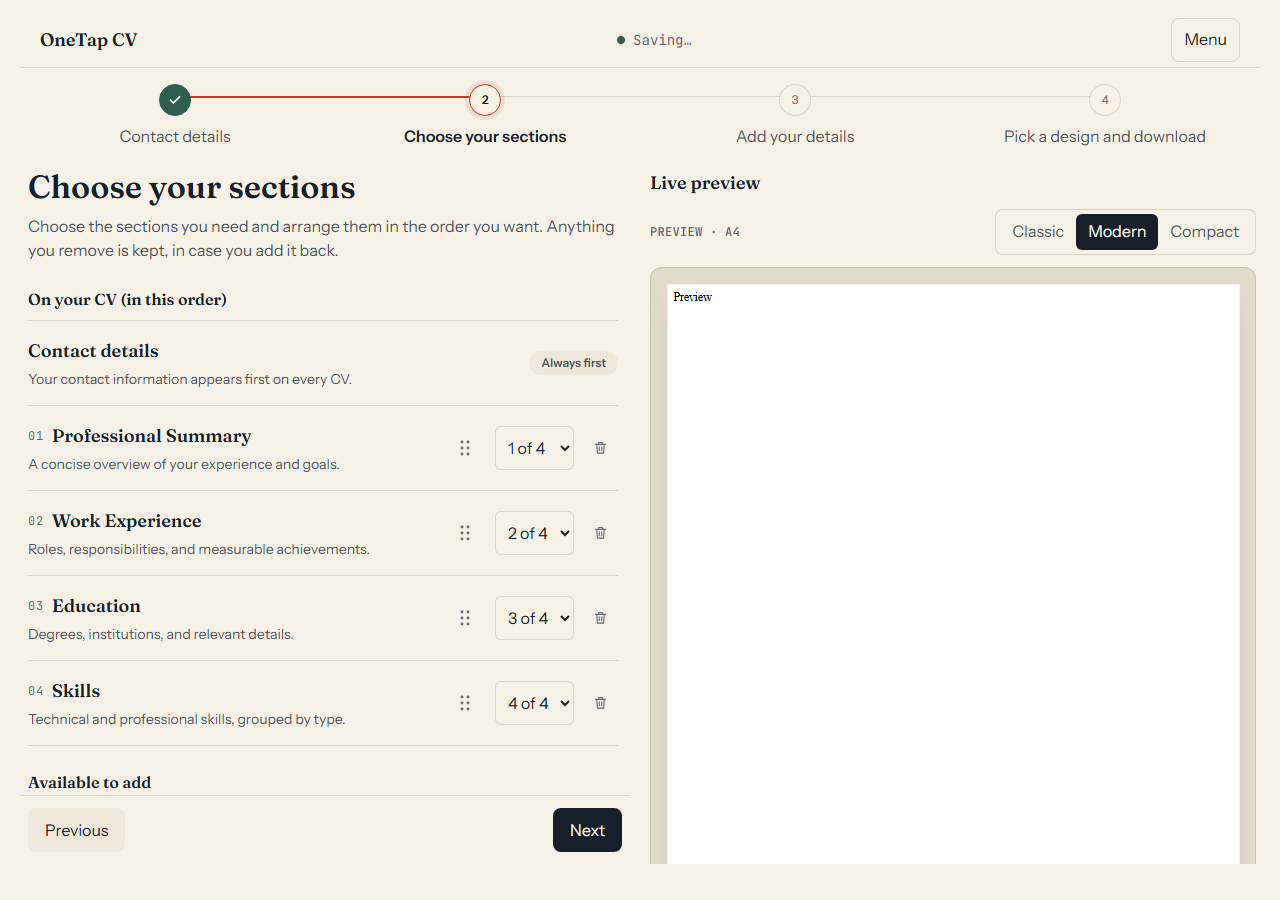
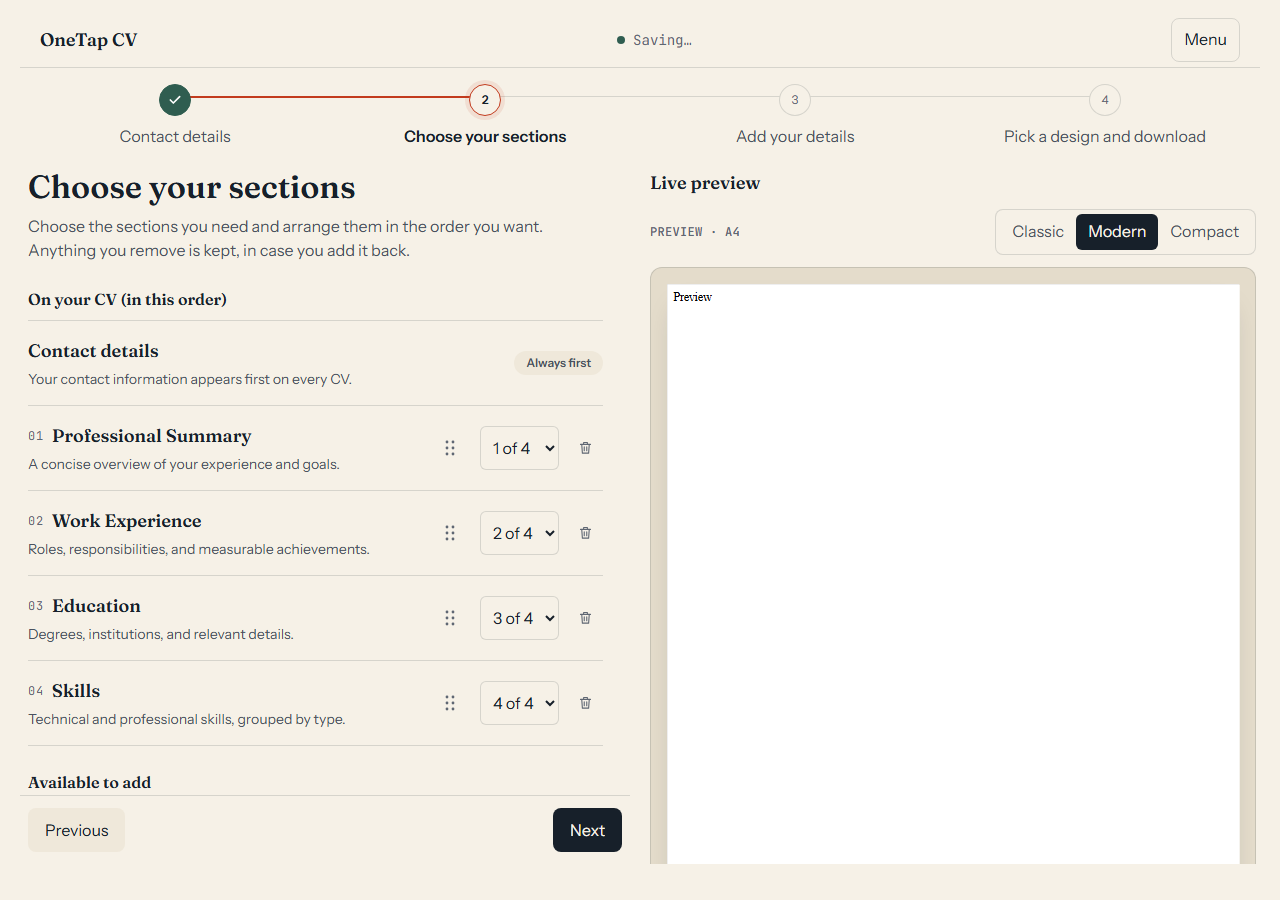
fix(builder): keep editor width stable across steps

diff --git a/frontend/e2e/layout.spec.ts b/frontend/e2e/layout.spec.ts
@@ -33,6 +33,14 @@ async function waitForPageScrollToSettle(page: import('@playwright/test').Page) 
   }))
 }
 
+async function getEditorHeadingLeft(page: import('@playwright/test').Page) {
+  return page.locator('section[aria-label="Resume editor"] h2').first().evaluate((node) => Math.round(node.getBoundingClientRect().left))
+}
+
+async function getEditorViewportWidth(page: import('@playwright/test').Page) {
+  return page.locator('section[aria-label="Resume editor"] .builder-editor-scroll').evaluate((node) => node.clientWidth)
+}
+
 test.beforeEach(async ({ page }) => {
   await page.route('**/api/**', async (route) => {
     const url = new URL(route.request().url())
@@ -95,10 +103,14 @@ for (const width of widths) {
         await page.getByLabel('Full name').fill('Shahriar Hasan')
         await page.getByLabel('Email').fill('shahriar@example.com')
         await page.getByLabel('Phone').fill('+1 555 010 2000')
+        const stepOneHeadingLeft = await getEditorHeadingLeft(page)
+        const stepOneEditorWidth = await getEditorViewportWidth(page)
         await scrollEditorToBottom(page)
         await page.getByRole('button', { name: 'Next' }).click()
         await expect(page.getByRole('heading', { name: 'On your CV (in this order)' })).toBeVisible()
         await expect.poll(() => page.locator('section[aria-label="Resume editor"] div.overflow-y-auto').evaluate((node) => node.scrollTop)).toBe(0)
+        expect(await getEditorHeadingLeft(page)).toBe(stepOneHeadingLeft)
+        expect(await getEditorViewportWidth(page)).toBe(stepOneEditorWidth)
         const enabled = page.locator('[data-section-id]')
         const orderBefore = await enabled.evaluateAll((nodes) => nodes.map((node) => node.getAttribute('data-section-id')))
         await page.getByRole('button', { name: 'Drag Work Experience to reorder' }).dragTo(page.locator('[data-section-id="summary"]'))
@@ -116,6 +128,8 @@ for (const width of widths) {
         await page.getByRole('button', { name: 'Next' }).click()
         await expect(page.getByRole('region', { name: 'Resume section details' })).toBeVisible()
         await expect.poll(() => page.locator('section[aria-label="Resume editor"] div.overflow-y-auto').evaluate((node) => node.scrollTop)).toBe(0)
+        expect(await getEditorHeadingLeft(page)).toBe(stepOneHeadingLeft)
+        expect(await getEditorViewportWidth(page)).toBe(stepOneEditorWidth)
         await scrollEditorToTop(page)
         await page.screenshot({ path: resolve(shotDir, `build-step-3-${width}.png`), fullPage: true })
         await page.getByRole('button', { name: 'Next' }).click()

diff --git a/frontend/src/features/builder/components/BuilderLayout.tsx b/frontend/src/features/builder/components/BuilderLayout.tsx
@@ -45,7 +45,7 @@ export function BuilderLayout({
             activeTab === 'edit' ? '' : 'hidden'
           }`}
         >
-          <div ref={editorScrollRef} className="min-h-0 flex-1 overflow-y-auto overscroll-contain px-2 pb-[calc(6rem+env(safe-area-inset-bottom))] lg:pb-4 lg:pr-3">
+          <div ref={editorScrollRef} className="builder-editor-scroll min-h-0 flex-1 overflow-y-auto overscroll-contain px-2 pb-[calc(6rem+env(safe-area-inset-bottom))] lg:pb-4 lg:pr-3">
             <div className="grid content-start gap-5">
               <div key={stepIndex} className="builder-step-enter">
                 {editor}

diff --git a/frontend/src/index.css b/frontend/src/index.css
@@ -240,3 +240,7 @@ button.cursor-grab:not(:disabled) {
 button.cursor-grab:active:not(:disabled) {
   cursor: grabbing;
 }
+
+.builder-editor-scroll {
+  scrollbar-gutter: stable;
+}

diff --git a/docs/design/FIX_LOG.md b/docs/design/FIX_LOG.md
@@ -23,6 +23,10 @@
 - Reset the editor's scroll position to the top whenever the builder step
   changes. Playwright now scrolls to the bottom before changing steps and checks
   that both transitions reset to the top.
+- A follow-up browser review found the editor content width could still vary
+  when the scrollbar appeared for the longer section-selection step. The editor
+  now reserves a stable scrollbar gutter, and Playwright checks equal viewport
+  width and heading alignment across steps 1, 2, and 3.
 
 Date: 2026-10-09. Browser checks ran in Chromium at viewport widths 360, 390,
 768, and 1280px. Final screenshots are in `docs/design/qa-shots/`.

diff --git a/docs/design/QA.md b/docs/design/QA.md
@@ -27,6 +27,8 @@ by pytest. Screenshots are in `docs/design/qa-shots/`.
   by `11 / Start`.
 - [x] Playwright confirms the builder editor scrolls to the top when entering
   step 2 and when leaving it, after scrolling the prior step to the bottom.
+- [x] Playwright confirms editor viewport width and heading alignment remain
+  unchanged across steps 1, 2, and 3 at 360px, 390px, 768px, and 1280px.
 - [x] Frontend build and Oxlint passed; the full Vitest and Playwright suites
   are recorded below.
 
